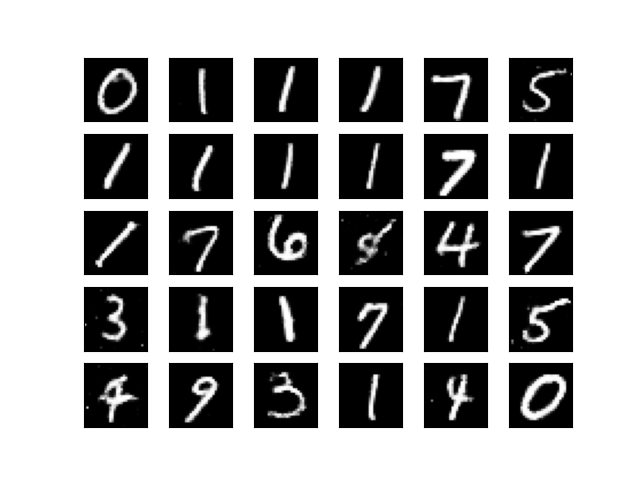
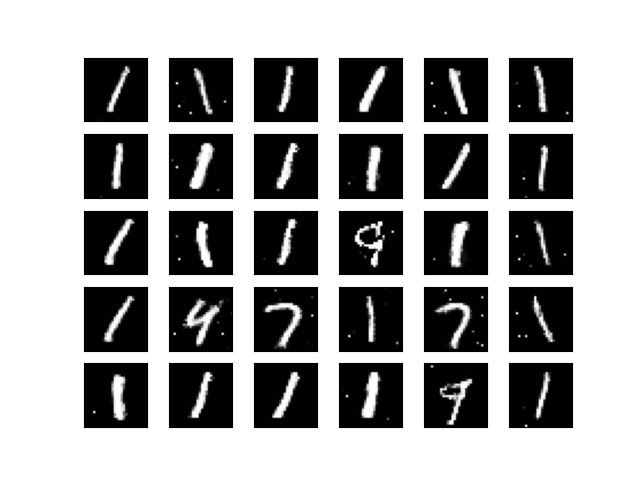
重みの初期値削除

diff --git a/train.py b/train.py
@@ -25,9 +25,9 @@ generator = Generator()
 discriminator = Discriminator()
 
 # 重みの初期化
-def init_weights(m):
-    if type(m) == nn.Linear:
-        nn.init.normal_(m.weight,0,0.01)
+# def init_weights(m):
+#     if type(m) == nn.Linear:
+#         nn.init.normal_(m.weight,0,0.01)
 
 generator.apply(init_weights)
 discriminator.apply(init_weights)
